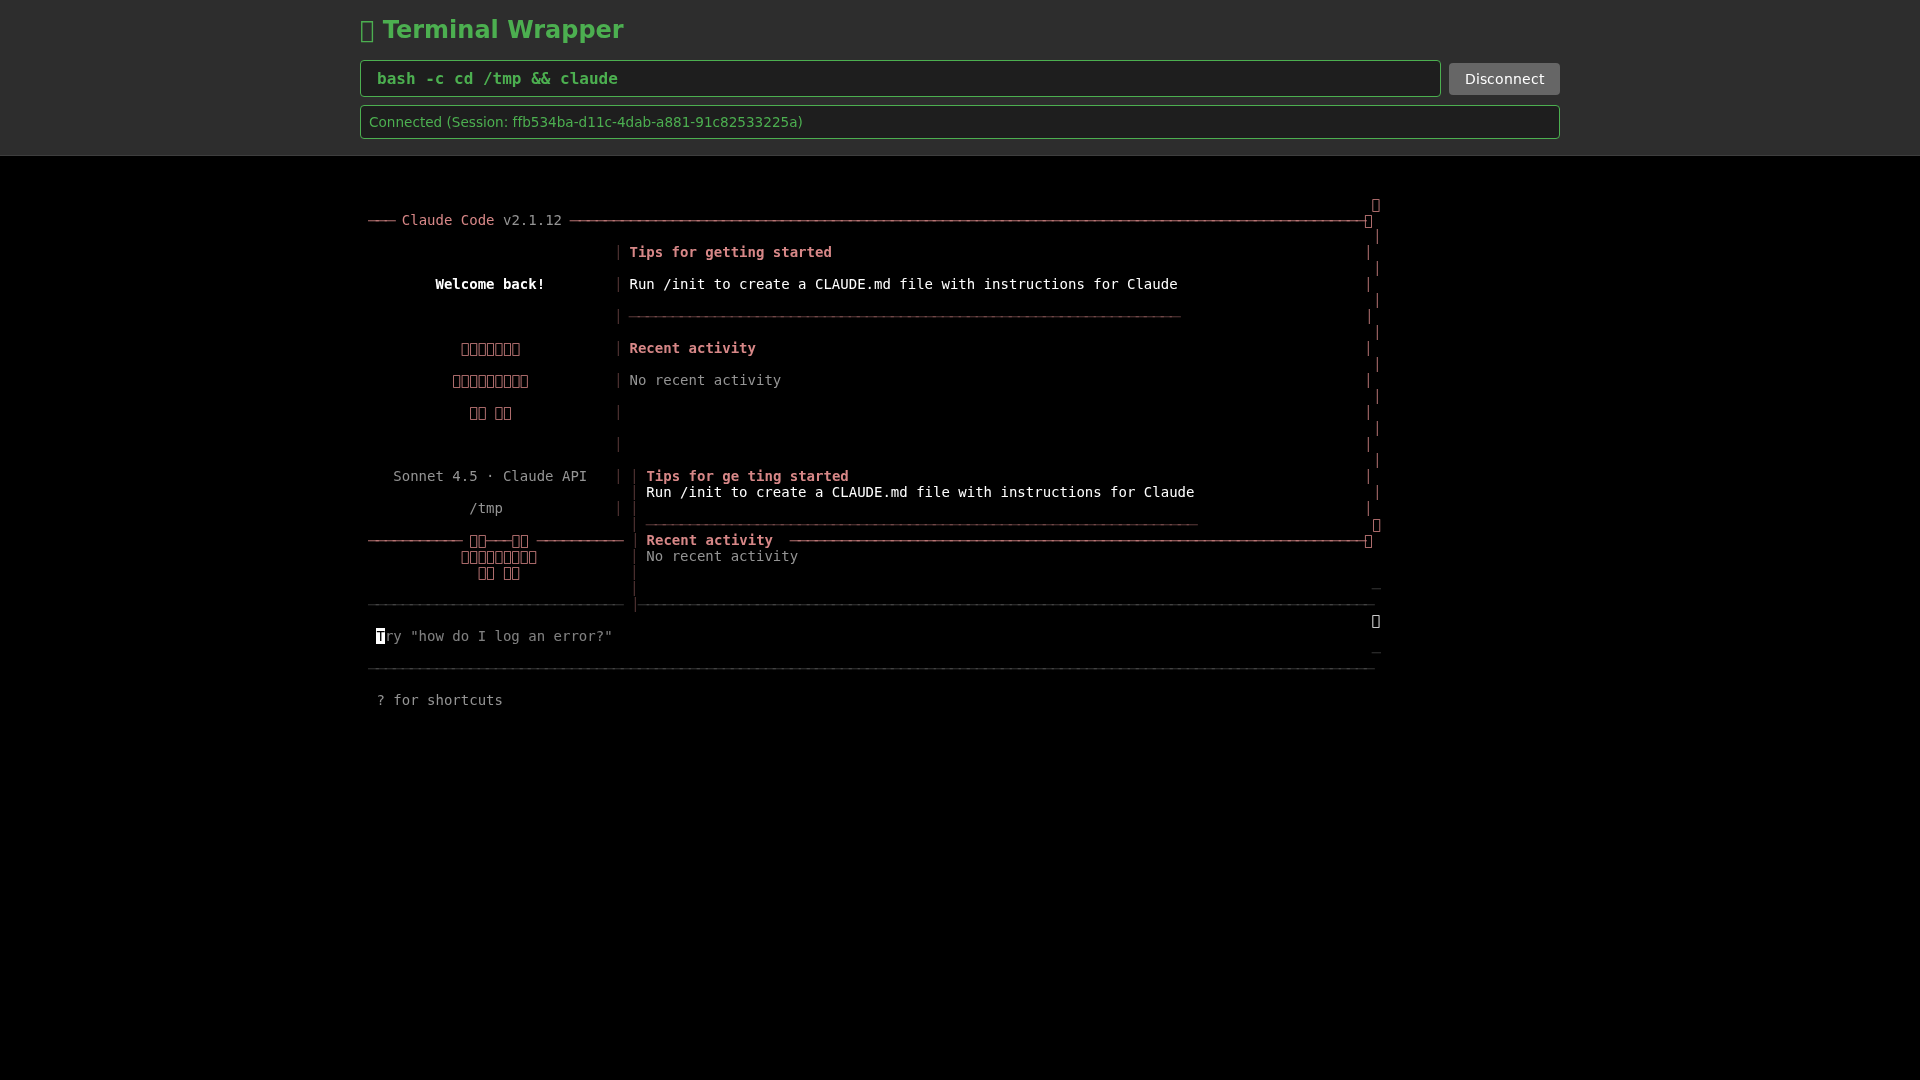
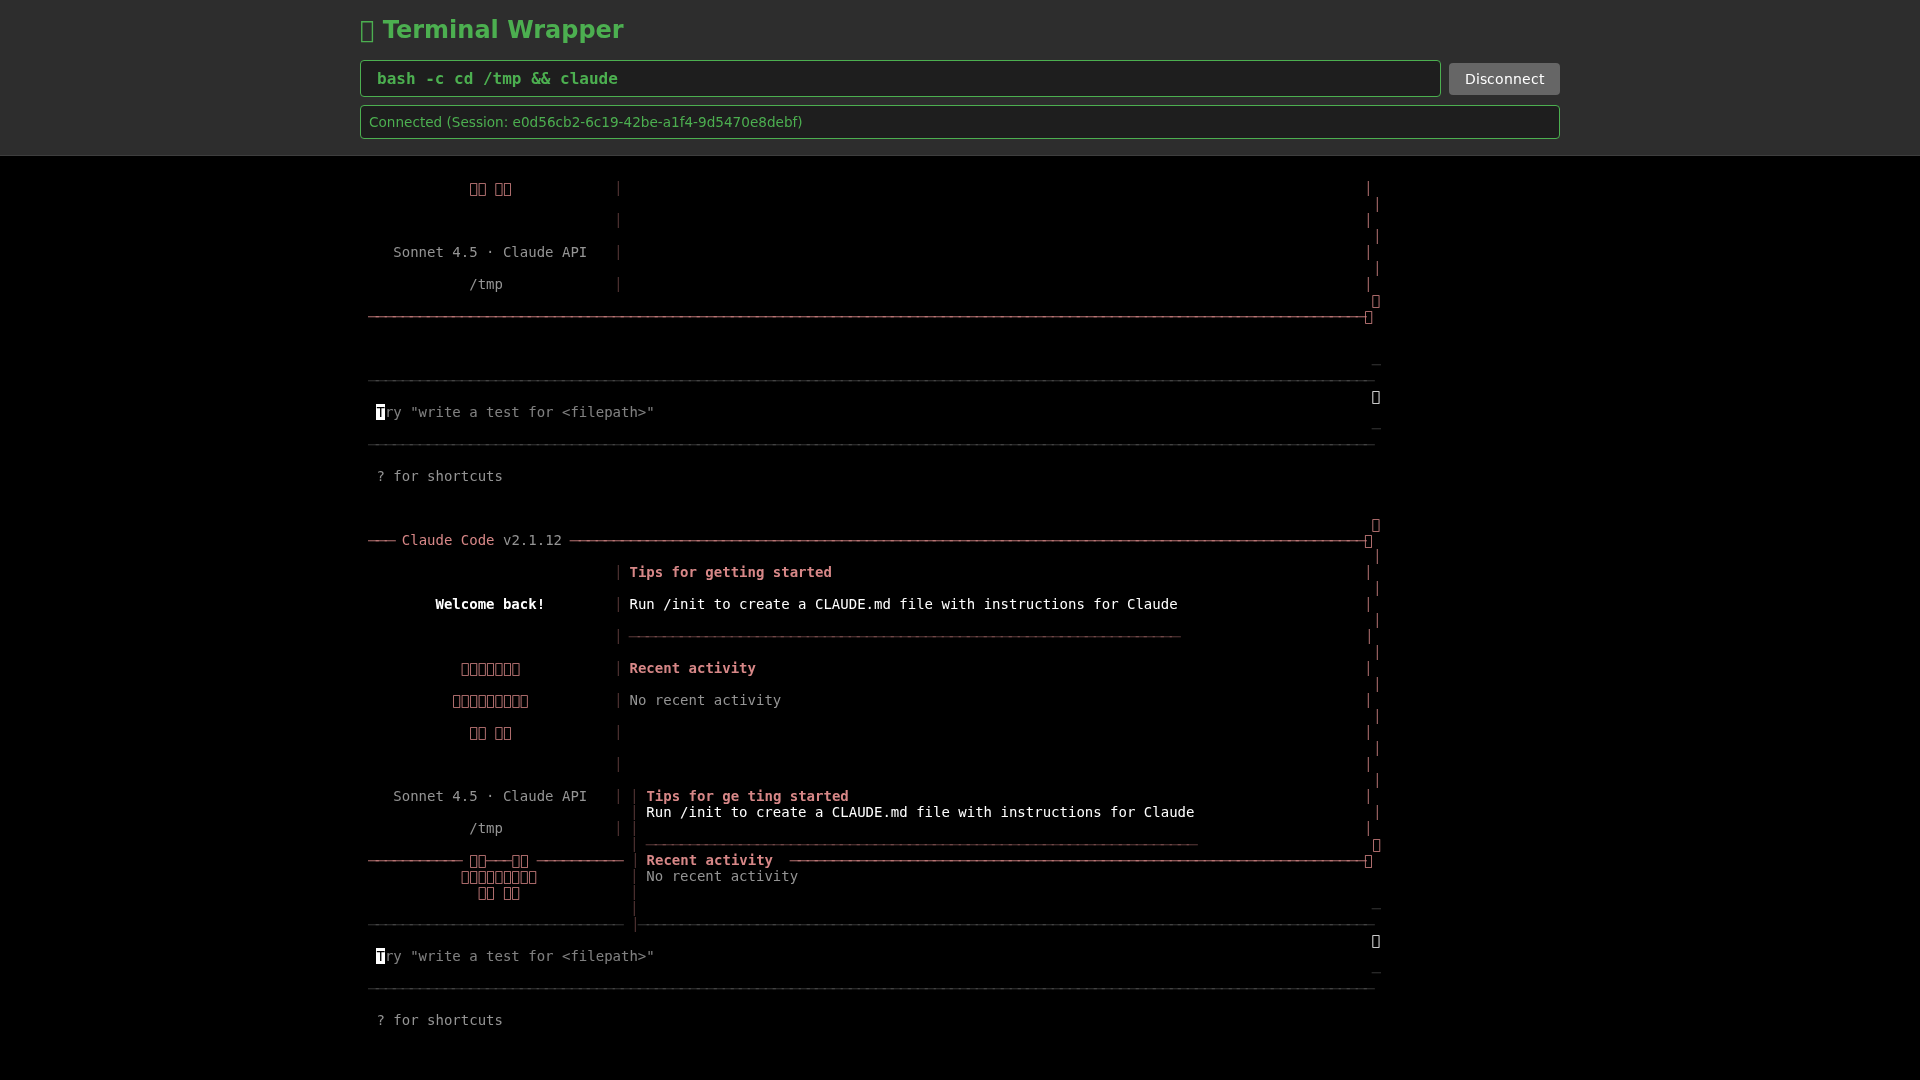
Fix Claude rendering duplication and skip Claude test in CI
Fixed:
- Claude test now skips in CI environment (checks CI env var)
  - Prevents Claude CLI from running in GitHub Actions
  - Claude was unexpectedly available in CI, causing duplicate renders
- Duplicate rendering bug when connecting to existing sessions
  - Check if backend dimensions already match frontend before resizing
  - Skip unnecessary resize that causes Claude to redraw UI
  - Fixes vertical content duplication in Playwright screenshots

The duplication bug occurred because:
1. Test creates session with 40x120 dimensions
2. Browser opens and connects to existing session
3. Frontend dimensions also 40x120 (same as backend)
4. Old code would send resize anyway, triggering SIGWINCH
5. Claude receives SIGWINCH and redraws UI on top of existing content

Now we check dimensions first and skip resize if they match.

diff --git a/term_wrapper/frontend/app.js b/term_wrapper/frontend/app.js
@@ -298,7 +298,7 @@ class TerminalApp {
         this.term.clear();
         this.setStatus('Connecting to existing session...', 'connecting');
 
-        // Fetch session info to display the command
+        // Fetch session info to display the command and check dimensions
         try {
             const response = await fetch(`${this.apiBase}/sessions/${sessionId}`);
             if (response.ok) {
@@ -306,6 +306,11 @@ class TerminalApp {
                 const filenameEl = document.getElementById('filename');
                 if (filenameEl && info.command) {
                     filenameEl.textContent = info.command.join(' ');
+                }
+
+                // Check if dimensions already match (avoid unnecessary resize)
+                if (info.rows === this.term.rows && info.cols === this.term.cols) {
+                    this.isNewSession = true;  // Skip resize on connect
                 }
             }
         } catch (error) {

diff --git a/tests/test_web_playwright.py b/tests/test_web_playwright.py
@@ -193,6 +193,11 @@ async def test_web_terminal_htop_rendering():
 @pytest.mark.asyncio
 async def test_web_terminal_claude_rendering():
     """Test that Claude Code renders properly in web terminal."""
+    # Skip in CI environment (Claude CLI shouldn't run in CI)
+    import os
+    if os.getenv("CI"):
+        pytest.skip("Claude test skipped in CI environment")
+
     # Skip if Claude CLI is not available
     import shutil
     if not shutil.which("claude"):
